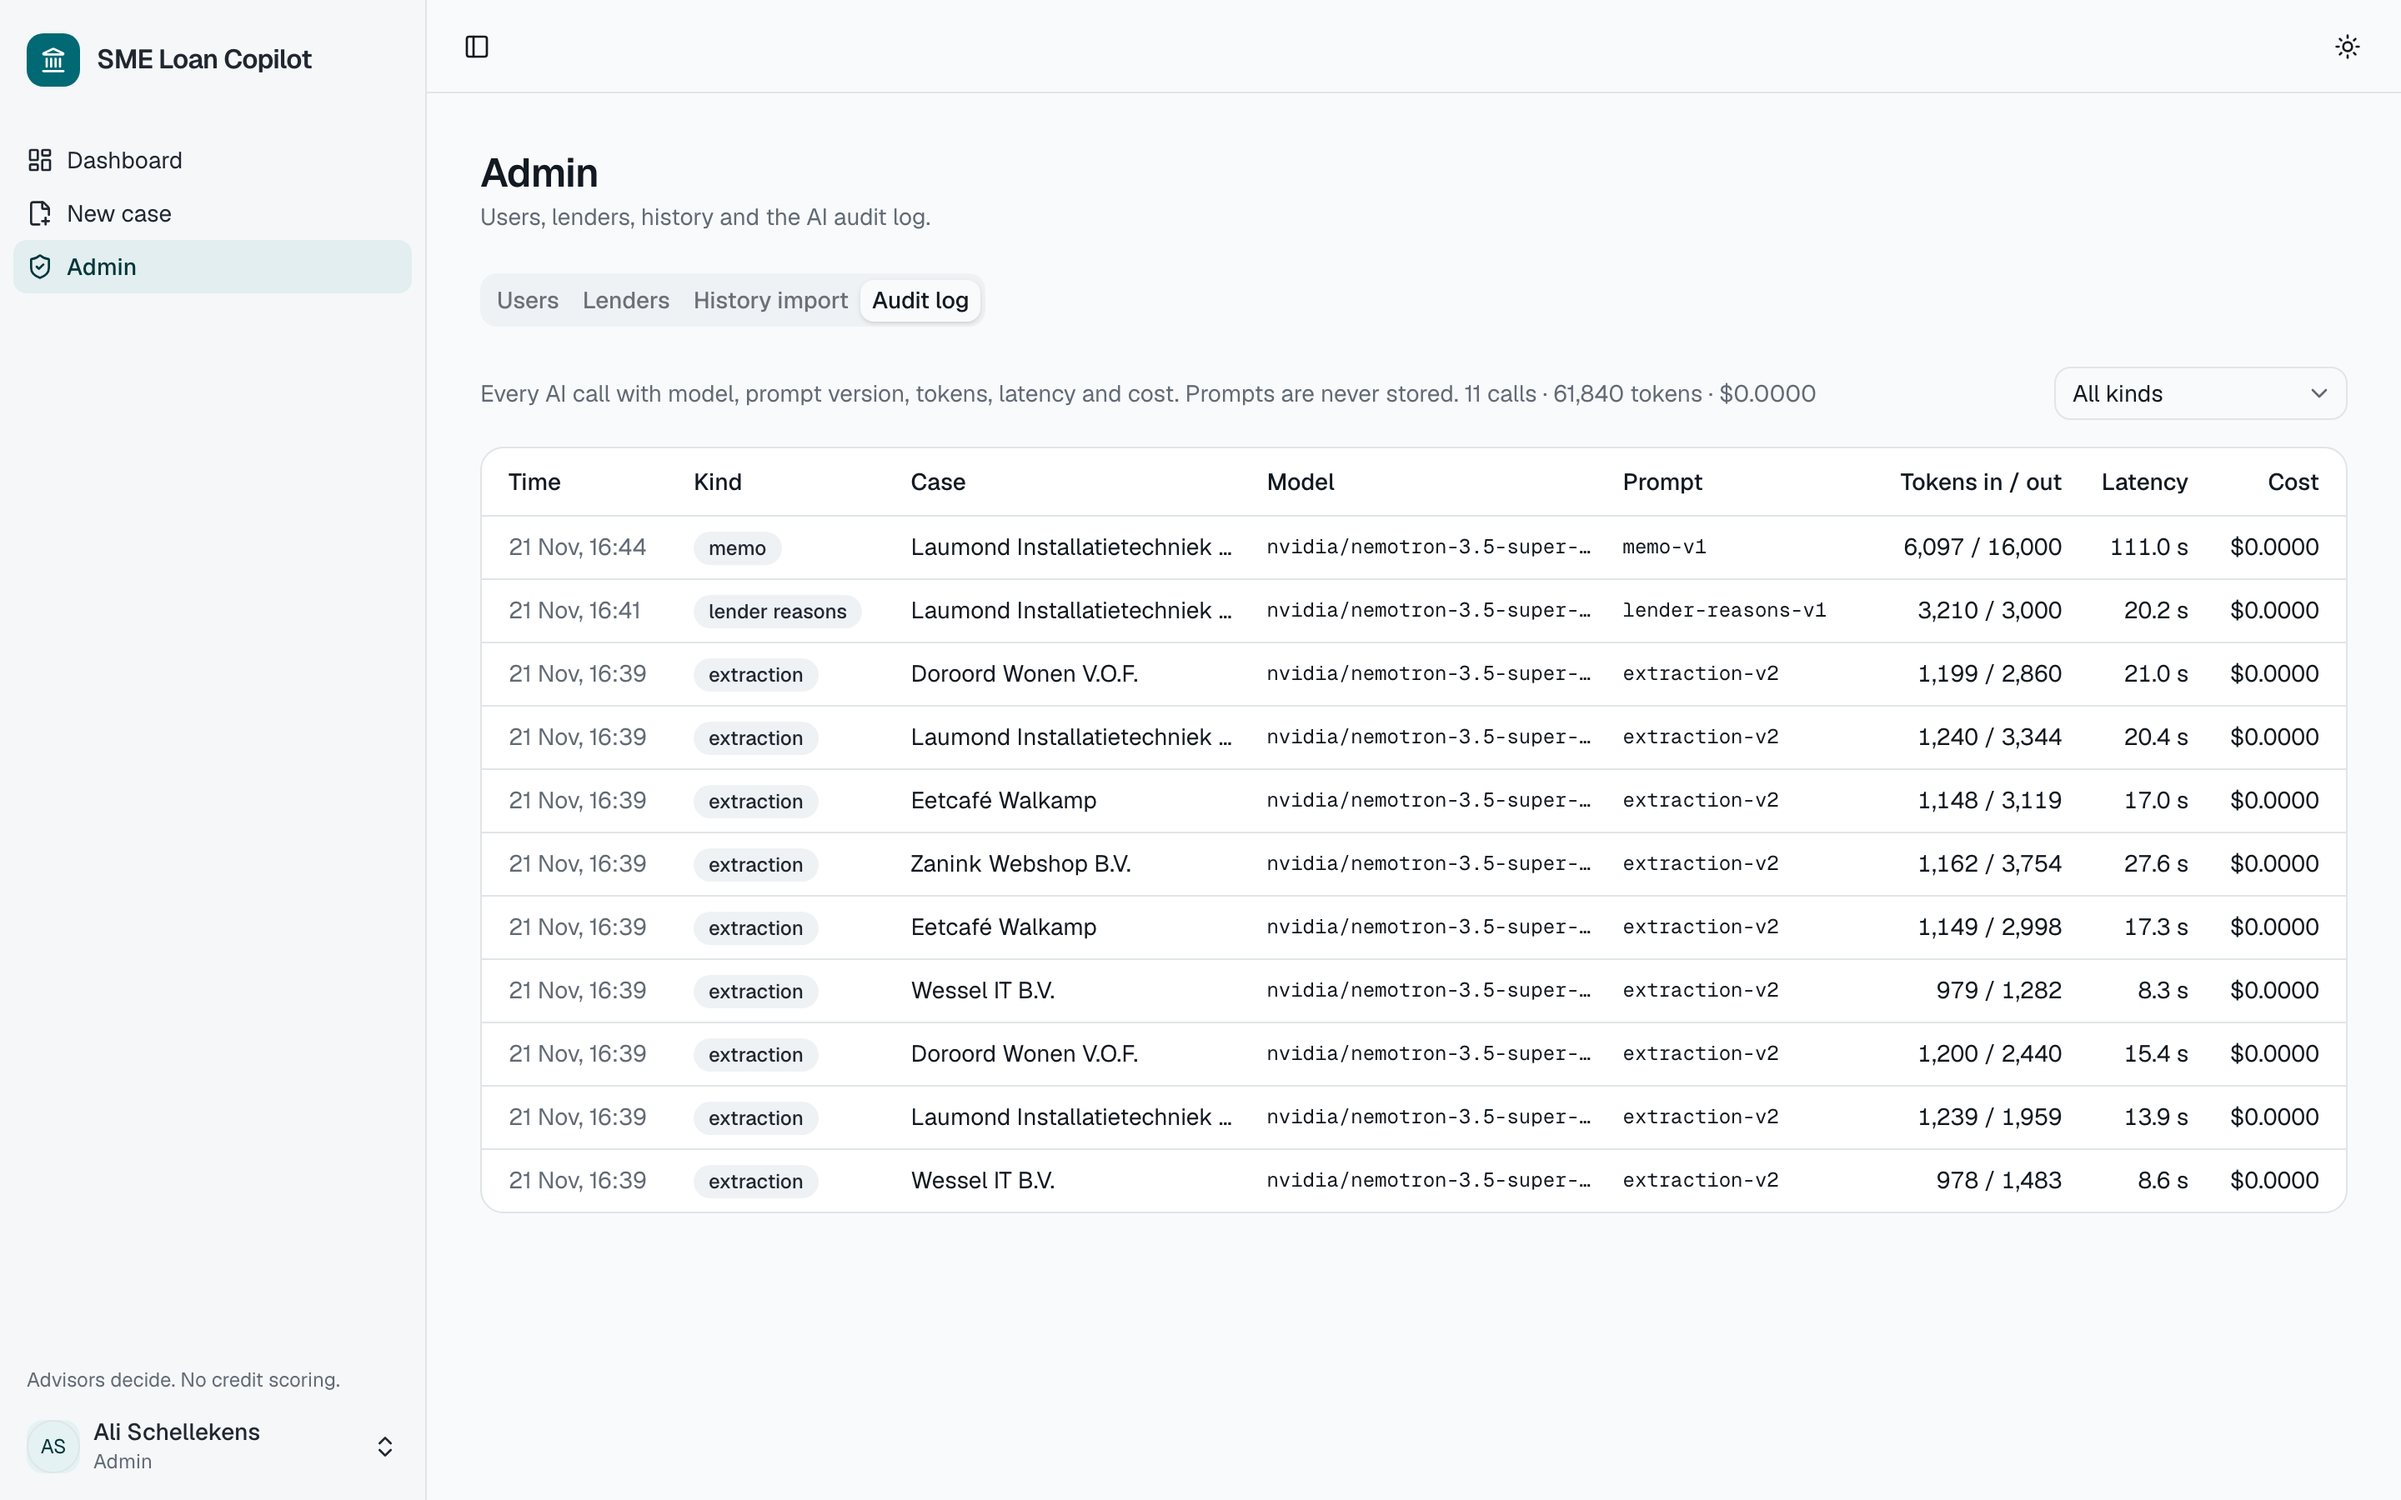
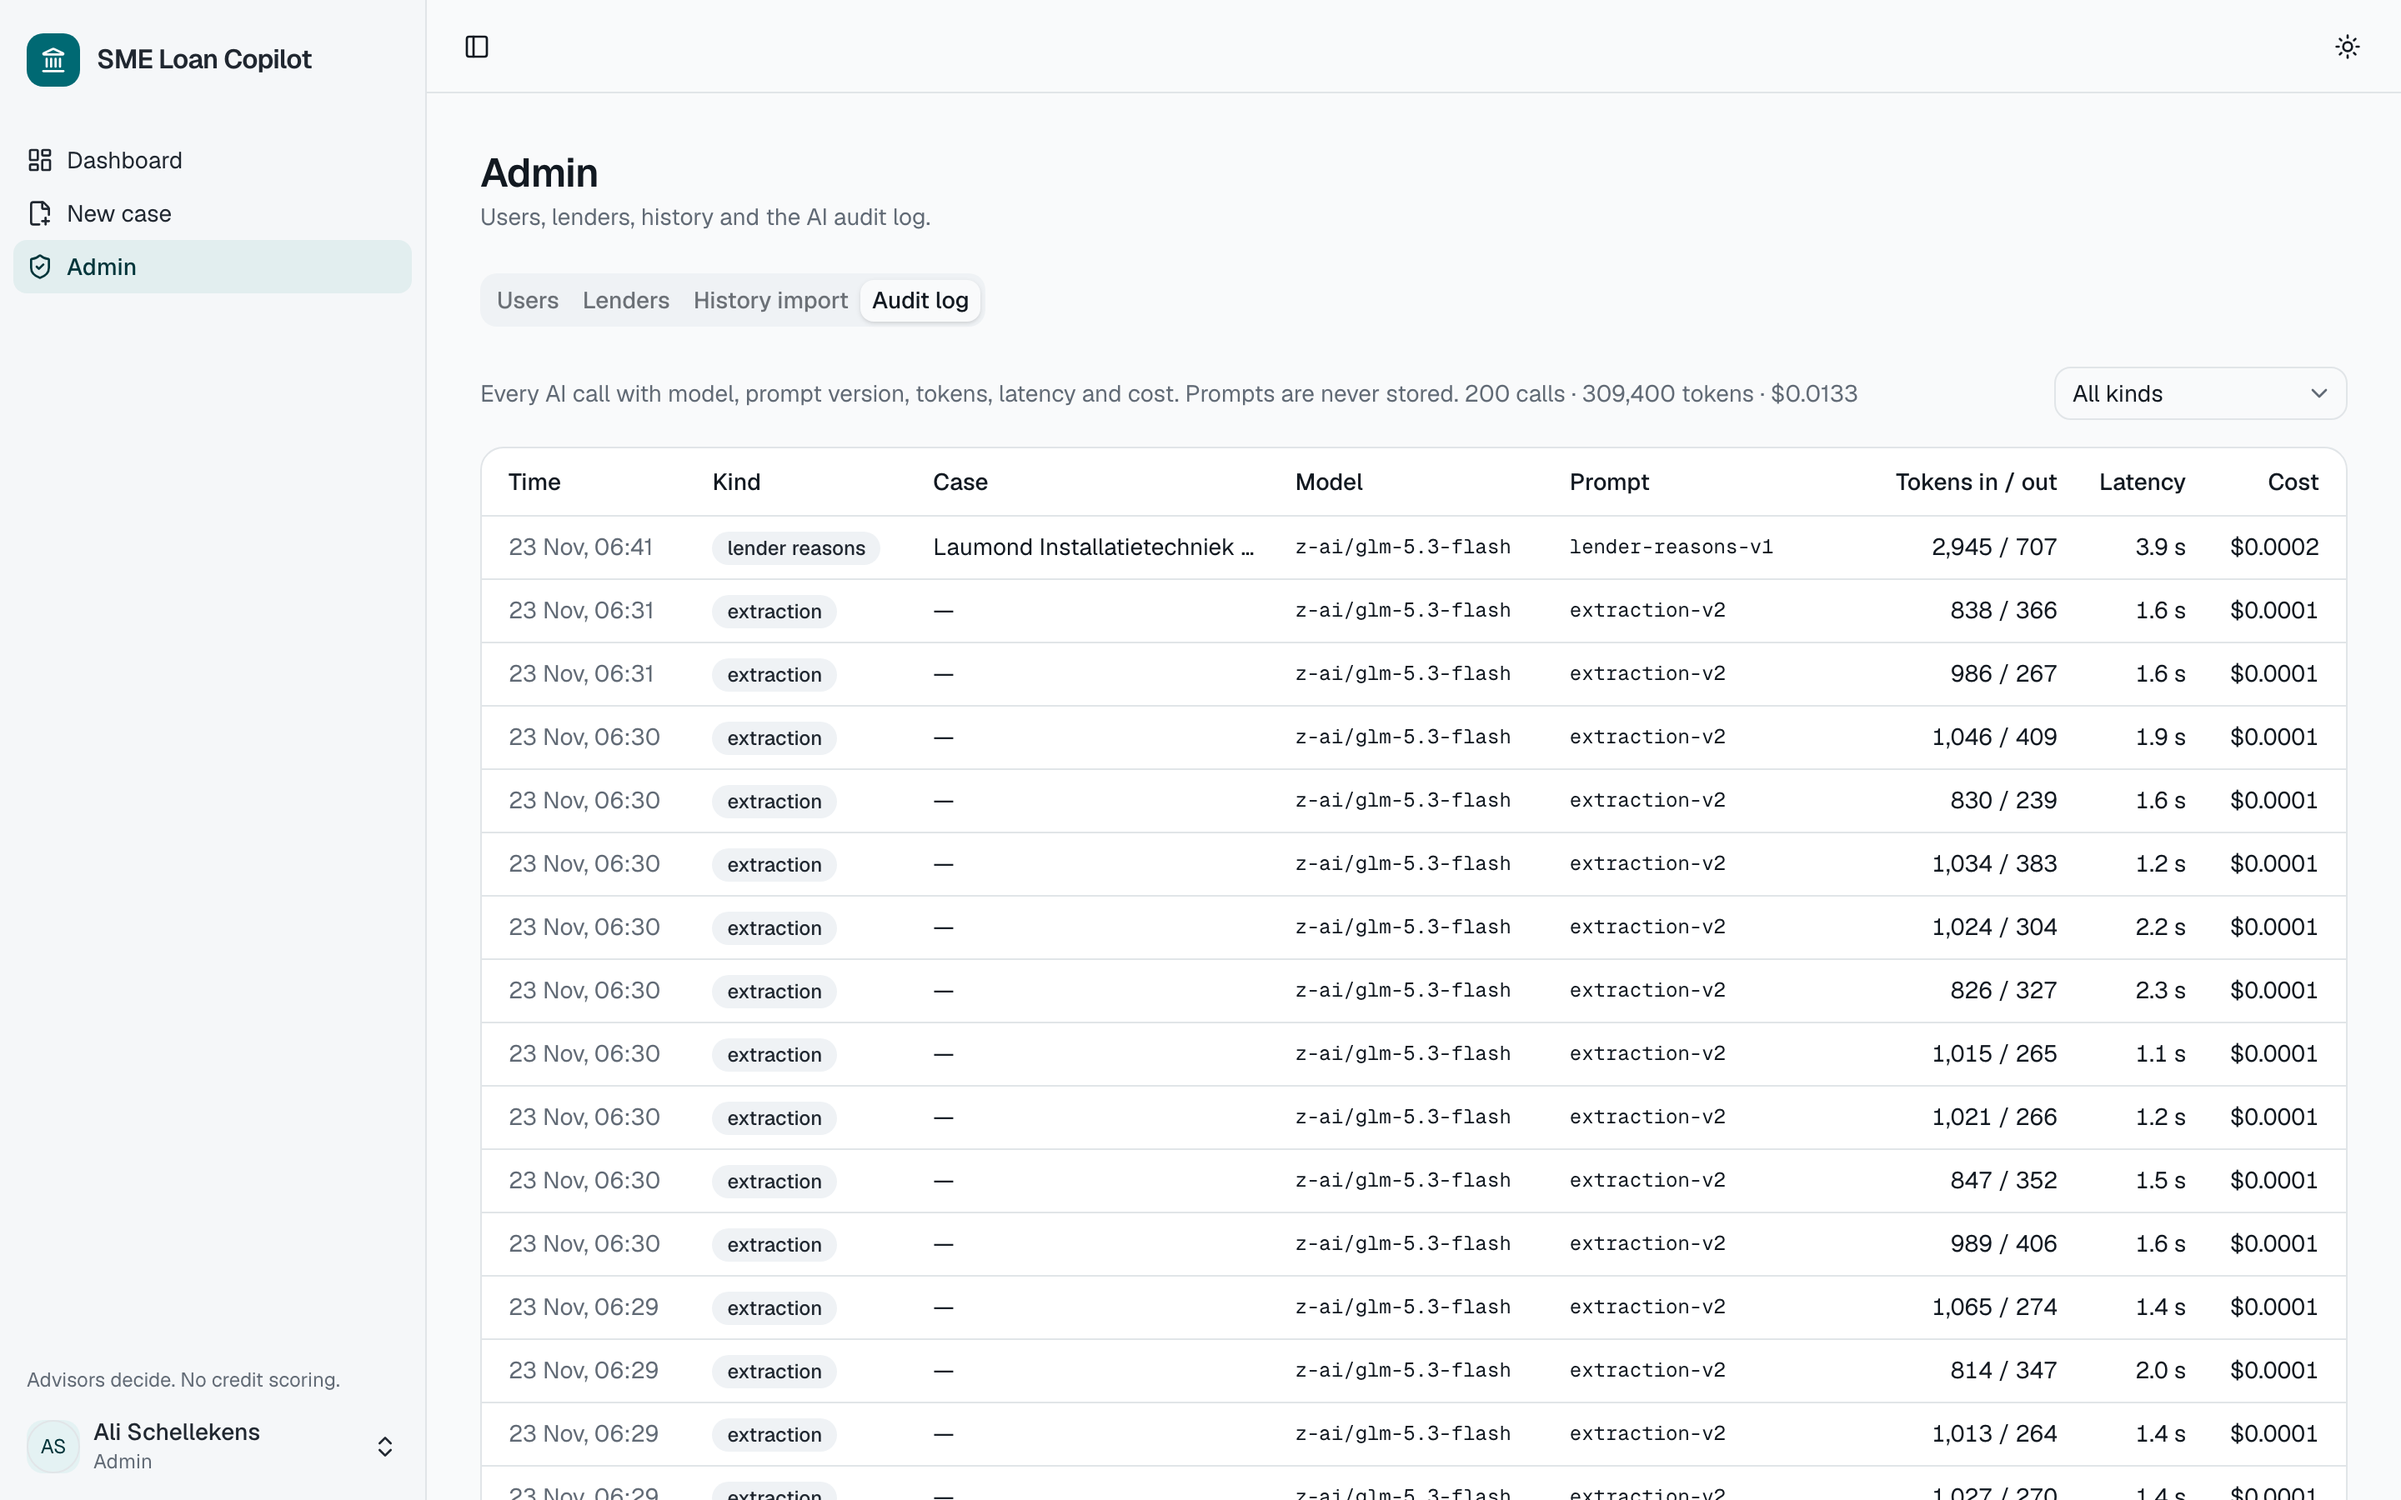
docs: full evaluation with GLM 5.3 Flash and refreshed screenshots
Answers, extraction and memo verification now ran: faithfulness 1.000,
relevancy 0.636, 100% extraction accuracy over 20 reports, and every memo
number verified after one redraft. Screenshots retaken with all four demo
cases prepared.

diff --git a/docs/eval-results.md b/docs/eval-results.md
@@ -1,27 +1,40 @@
 # Evaluation results
 
-Run on 2026-11-21 against the synthetic demo data. Written by `make eval` (`apps/api/eval/`); do not edit by hand.
+Run on 2026-11-23 against the synthetic demo data. Written by `make eval` (`apps/api/eval/`); do not edit by hand.
 
 | Pipeline | Recall@5 | MRR@10 | Faithfulness | p95 latency |
 |---|---|---|---|---|
-| Dense only | 97.9% | 0.688 | — | 141 ms |
-| Keyword only | 87.5% | 0.567 | — | 6 ms |
-| Hybrid (RRF) | 97.9% | 0.743 | — | 123 ms |
-| Hybrid + rerank | 91.7% | 0.743 | — | 4,262 ms |
+| Dense only | 97.9% | 0.688 | — | 136 ms |
+| Keyword only | 87.5% | 0.567 | — | 7 ms |
+| Hybrid (RRF) | 97.9% | 0.743 | — | 137 ms |
+| Hybrid + rerank | 91.7% | 0.743 | 1.000 | 11,049 ms |
 
 ## Configuration
 
-- LLM: `openrouter:anthropic/claude-sonnet-5.5` (also the judge)
+- LLM: `openrouter:z-ai/glm-5.3-flash` (also the judge)
 - Embeddings: `BAAI/bge-m3`; reranker: `BAAI/bge-reranker-v2-m3`
 - Golden set: 48 answerable questions over 4 demo cases, plus unanswerable ones for the answer metrics
 
 ## Answers (hybrid + rerank)
 
-Not run: no working LLM was available when the eval ran.
+| Metric | Value |
+|---|---|
+| Faithfulness | 1.000 |
+| Answer relevancy | 0.636 |
+| Correct "can't find" on 5 unanswerable questions | 100.0% |
+| "Can't find" on answerable questions | 0.0% |
+| p95 answer latency (retrieval + generation) | 10,239 ms |
 
 ## Extraction
 
-Not run: no working LLM was available when the eval ran.
+| Metric | Value |
+|---|---|
+| Reports | 20 (0 failed to parse) |
+| Field accuracy (within 0.5%) | 100.0% |
+| … classic layout | 100.0% |
+| … dutch layout | 100.0% |
+| … modern layout | 100.0% |
+| Reports with validation warnings | 0.0% |
 
 ## Backtest
 
@@ -35,7 +48,13 @@ Not run: no working LLM was available when the eval ran.
 
 ## Memo verification
 
-Not run: no memos drafted yet (run “Prepare application” on the demo cases).
+| Metric | Value |
+|---|---|
+| Memo versions | 4 |
+| Every number verified on the first draft | 75.0% |
+| Every number verified after redrafting | 100.0% |
+| Numbers checked (final drafts) | 337 |
+| Redrafts | 1 |
 
 ## How to read this
 

diff --git a/README.md b/README.md
@@ -56,17 +56,22 @@ Retrieval on 48 golden questions over the synthetic demo cases (latency is retri
 
 | Pipeline | Recall@5 | MRR@10 | Faithfulness | p95 latency |
 |---|---|---|---|---|
-| Dense only | 97.9% | 0.688 | — | 141 ms |
-| Keyword only | 87.5% | 0.567 | — | 6 ms |
-| Hybrid (RRF) | 97.9% | 0.743 | — | 123 ms |
-| Hybrid + rerank | 91.7% | 0.743 | — | 4,262 ms |
+| Dense only | 97.9% | 0.688 | — | 136 ms |
+| Keyword only | 87.5% | 0.567 | — | 7 ms |
+| Hybrid (RRF) | 97.9% | 0.743 | — | 137 ms |
+| Hybrid + rerank | 91.7% | 0.743 | 1.000 | 11,049 ms |
+
+With GLM 5.3 Flash (via OpenRouter) as both the model and the judge:
+- **Answers:** faithfulness 1.000, answer relevancy 0.636. All 5 unanswerable questions got the "can't find" reply, and no answerable question did.
+- **Extraction:** 100% of figures within 0.5% across 20 annual reports in three layouts, with no validation warnings.
+- **Memo verification:** 3 of 4 first drafts had every number verified; after one redraft all 4 did (337 numbers checked).
 
 Backtest on the 46 most recent historical cases, where each sees only cases decided before its application date:
 - **Lender hit@3:** 93.1%, against 66.0% for a random order and 79.3% for "most popular lender first".
 - **Precedent agreement:** 43.5%, below the 58.7% of always predicting the most common outcome.
 - **Amount coverage:** 21.4%.
 
-So precedents are shown as context, never as a prediction. Answer faithfulness, extraction accuracy and memo verification need a working LLM and were not part of this run.
+So precedents are shown as context, never as a prediction. The reranker runs on CPU, which is why it dominates latency; it is the step to move to a GPU or drop when speed matters more than ranking.
 
 See [`docs/eval-results.md`](docs/eval-results.md) for every table and how to read them. The evaluation runs locally against synthetic data (`make eval EVAL_DIR=…`); CI never runs it.
 
